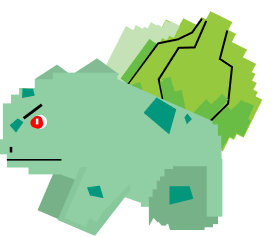
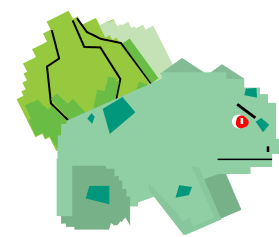
fixed journal +final characters

diff --git a/journal/index.html b/journal/index.html
@@ -12,6 +12,11 @@
         integrity="sha512-NhSC1YmyruXifcj/KFRWoC561YpHpc5Jtzgvbuzx5VozKpWvQ+4nXhPdFgmx8xqexRcpAglTj9sIBWINXa8x5w=="
         crossorigin="anonymous" referrerpolicy="no-referrer" />
 
+        <!-- Fonts -->
+        <link rel="preconnect" href="https://fonts.googleapis.com">
+<link rel="preconnect" href="https://fonts.gstatic.com" crossorigin>
+<link href="https://fonts.googleapis.com/css2?family=Julius+Sans+One&display=swap" rel="stylesheet">
+
 </head>
 
 <body>
@@ -22,7 +27,7 @@
 
     </header>
 
-    <div class="container">
+    <main id="container">
         <div id="book1">
             <h2>Best Practices in Form Design</h2>
             <p>"An essential tip to enhance the usability of all graphic user interfaces is to minimize the amount of
@@ -30,8 +35,7 @@
                 cloud
                 our empathy toward our users. The combination of clean organization and spacing allow the user to digest
                 information at a standard rate, rather than being overwhelmed by too many options being available.To
-                read more about
-                this article, click <a href="https://uxdesign.cc/best-practices-for-form-design-ff5de6ca8e5f">here</a>!
+                read more about this article, click <a href="https://uxdesign.cc/best-practices-for-form-design-ff5de6ca8e5f">here</a>!
                 <br>
                 Despite my skepticism of capitalism, I think apple displays amazing organization on their website,
                 utilizing open space and images to not overwhelm the user. Here is the <a
@@ -86,32 +90,39 @@
                 part of my childhood, playing games with my siblings and cousins.
             </p>
 
-            <div id="book5">
-
-                <h2>Game Design Research</h2>
-
-                <p>
-                    I really enjoyed and learned from what this author had to say about physical comfort when
-                    interacting with a mobile or tablet application.
-                    This feature is often overlooked because designers are so focusesd on creating an attractive
-                    interface. This article just refreshes me on how
-                    human our design process is. I plan on applying this to my GameOn project paying attention to
-                    miniscule details that I may overlook that would greatly effect the overall experience
-                    of the user. This project excites me because I always wanted to design and build video games, but I
-                    never
-                    thought that I was smart enough to do it.
-                </p>
-
-            </div>
 
 
         </div>
 
-</body>
+        <div id="book5">
+
+            <h2>Game Design Research</h2>
+
+            <p>
+                I really enjoyed and learned from what this author had to say about physical comfort when
+                interacting with a mobile or tablet application.
+                This feature is often overlooked because designers are so focusesd on creating an attractive
+                interface. This article just refreshes me on how
+                human our design process is. I plan on applying this to my GameOn project paying attention to
+                miniscule details that I may overlook that would greatly effect the overall experience
+                of the user. This project excites me because I always wanted to design and build video games, but I
+                never
+                thought that I was smart enough to do it.
+            </p>
+
+    </main>
 
 <footer>
+<h2>Made by Daniel Ramos</h2>
+    <div id="footerStuff">
 
+        <h2><a href="https://danielkuchu.github.io/des157portal/">Back to Portal</a></h2><h2>html validation</h2><h2>normalized css</h2>
+
+    </div>
 
 </footer>
+
+</body>
+
 
 </html>

diff --git a/journal/styles.css b/journal/styles.css
@@ -1,111 +1,142 @@
+body {
+
+    background-color: black;
+
+}
+
+h2,
+h1 {
+
+    font-family: 'Julius Sans One', sans-serif;
+
+}
+
 header {
-
-    height: 250px;
-    max-width: 1200px;
-    background-color: burlywood;
+    color: white;
+    font-family: 'Julius Sans One', sans-serif;
+    font-size: 50px;
     text-align: center;
-    margin: auto;
-    padding: auto;
-
+    padding: 60px;
 
 }
 
-header h1 {
+h1 {
 
-    font-size: 100px;
-    color: rgb(111, 56, 0);
-
+margin: 0;
 }
 
-p,
-h2 {
+a {
 
-    padding: 5px;
-
-}
-
-h2 {
-
-text-align: center;
+    text-decoration: none;
+    color: rgb(152, 0, 0);
 
 }
-
-.container {
-    width: 1200px;
-    background-color: rgb(97, 47, 14);
-    margin: auto;
-    padding: auto;
-}
-
 
 #book1 {
-    width: 1000px;
-    height: 200px;
-    background-color: rgb(255, 157, 157);
-    border: solid black;
-    margin: auto;
-    padding: auto;
+
+    background-color: rgb(24, 24, 24);
+    padding: 50px;
     border-radius: 20px;
+    margin-bottom: 100px;
+
 }
 
 #book2 {
-    width: 1000px;
-    height: 200px;
-    background-color: rgb(77, 148, 255);
-    border: solid black;
-    margin: auto;
-    padding: auto;
+
+    background-color: rgb(24, 24, 24);
+    padding: 50px;
     border-radius: 20px;
+    margin-bottom: 100px;
+
 }
 
 #book3 {
-    width: 1000px;
-    height: 200px;
-    background-color: rgb(211, 125, 28);
-    border: solid black;
-    margin: auto;
-    padding: auto;
+
+    background-color: rgb(24, 24, 24);
+    padding: 50px;
     border-radius: 20px;
+    margin-bottom: 100px;
+
 }
 
 #book4 {
-    width: 1000px;
-    height: 500px;
-    background-color: rgb(28, 211, 40);
-    border: solid black;
-    margin: auto;
-    padding: auto;
+
+    background-color: rgb(24, 24, 24);
+    padding: 50px;
     border-radius: 20px;
+    margin-bottom: 100px;
+
 }
 
 #book5 {
-    width: 1000px;
-    height: 200px;
-    background-color: rgb(187, 0, 228);
-    border: solid black;
-    margin: auto;
-    padding: auto;
+
+    background-color: rgb(24, 24, 24);
+    padding: 50px;
     border-radius: 20px;
+    margin-bottom: 100px;
+
 }
 
 
+#container {
 
-body {
-
-    max-width: 1200px;
-    background-color: rgb(63, 11, 11);
+    background-color: rgb(12, 12, 12);
+    color: white;
+    border-radius: 20px;
     margin: auto;
-    padding: auto;
+    width: 1200px;
+    padding: 100px;
+
+}
+
+#container div h2 {
+
+color: rgb(76, 190, 76);
+
+}
+
+#container div p {
+
+    font-size: 18px;
+    line-height: 40px;
 
 }
 
 footer {
 
-    height: 100px;
-    max-width: 1200px;
-    background-color: burlywood;
-    text-align: center;
+    background-color: rgb(12, 12, 12);
+    color: white;
+    border-radius: 20px;
+    width: 1200px;
     margin: auto;
-    padding: auto;
+    padding: 50px;
+    text-align: center;
+    transform: translateY(200px);
+}
+
+#footerStuff {
+
+    position: relative;
+    left: 15%;
+    display: flex;
+    flex-direction: row;
+
+}
+
+#footerStuff h2{
+
+padding: 40px;
+
+}
+
+#footerStuff a {
+
+    color: white;
+
+}
+
+#footerStuff a:hover {
+
+    color: rgb(137, 0, 0);
 
 }

diff --git a/final/finalv1/styles.css b/final/finalv1/styles.css
@@ -647,6 +647,7 @@ color: white;
 #poke2 {
 
     float: right;
+    transform: scaleX(-1);
 
 }
 
